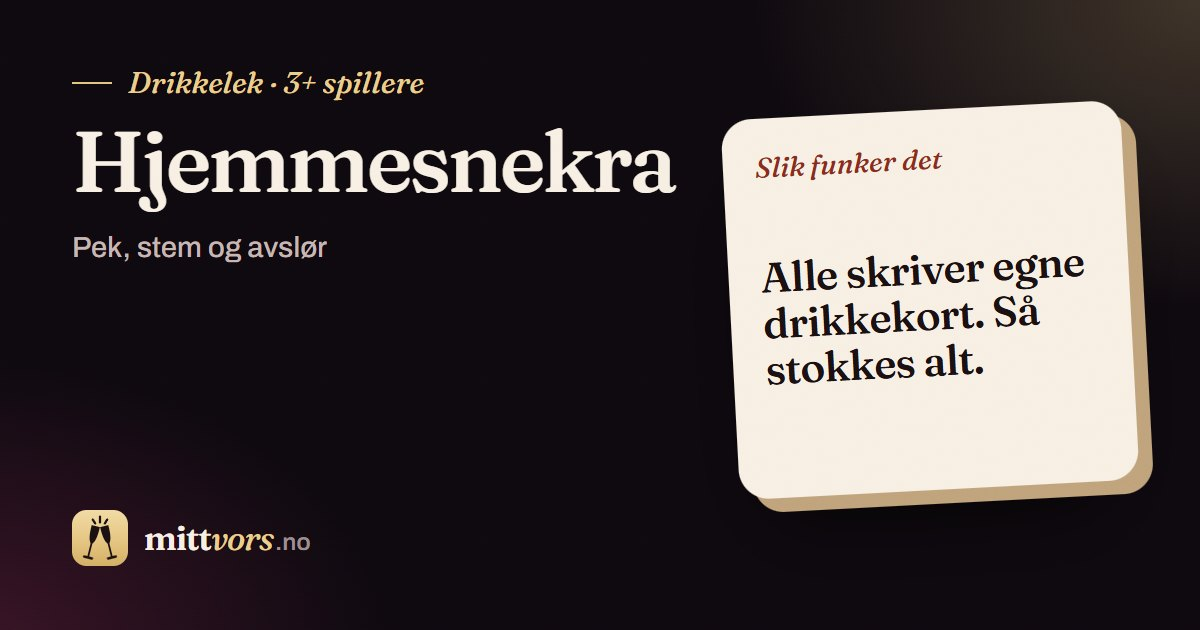
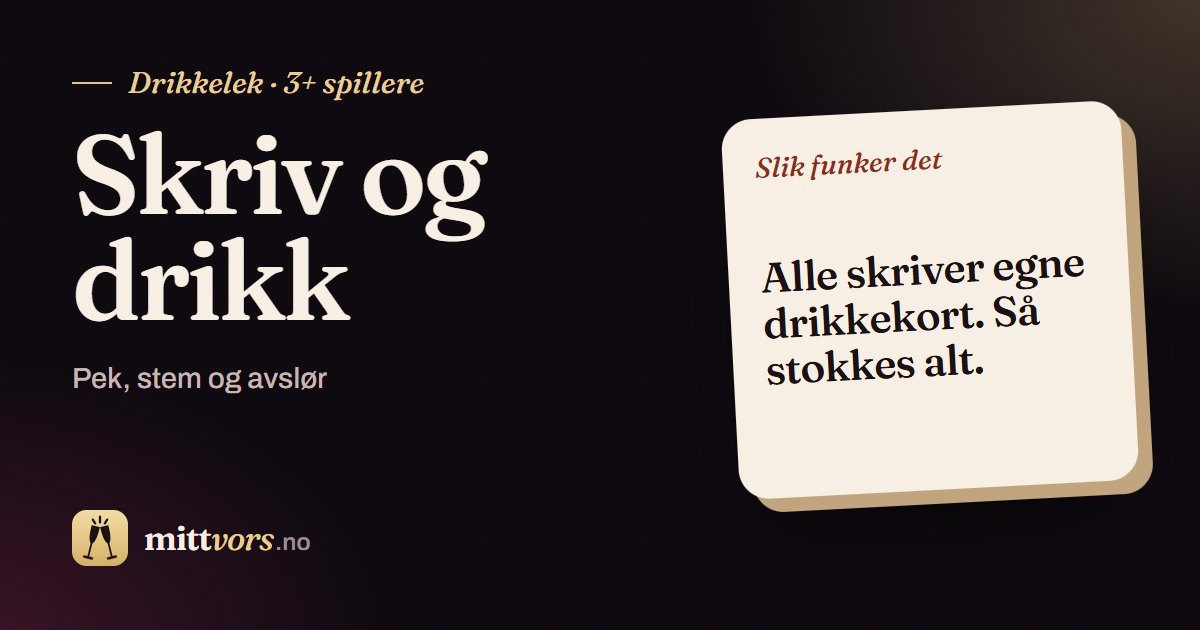
Mobile polish for the drinking games, and "Hjemmesnekra" becomes "Skriv og drikk"
- Game pages: big illustration up top, serif title, facts on one line
  instead of three boxes, no eyebrow label; "Slik spiller dere" heading;
  rule bullets as an airy hairline list; more games as a swipeable row
  of picture cards with a plain "all games" link
- Games index: one gold "Lag et rom" with two text links; search no longer
  sticky, only the filter chips follow you (alcohol-free toggle moved into
  the chip row); serif names; app and rules-only lists use hairlines
  instead of boxes
- Renamed the game "Hjemmesnekra" to "Skriv og drikk" (EN "Write & Drink")
  everywhere, share image regenerated

Changed region(s): [[0.0617, 0.2111, 0.5858, 0.5127], [0.0617, 0.573, 0.2775, 0.6333]]

diff --git a/src/styles/champagne.css b/src/styles/champagne.css
@@ -214,3 +214,85 @@ h3,.h3{font-stretch:normal;font-weight:700}
 .toast{background:var(--gull-glans);color:var(--ink2);box-shadow:0 10px 30px -12px rgb(0 0 0 / .6)}
 
 @media (prefers-reduced-motion:reduce){.h2-hero h1{animation:none}.topp3-bilde img{transition:none}}
+
+/* =====================================================================
+   DRIKKELEKER – oversikten og hver lek, laget for mobilen først.
+   Oversikten: én gullknapp, bare filterraden følger med når man blar,
+   lister med hårstreker i stedet for bokser. Leken: stort bilde, navnet,
+   fakta på én linje, reglene som luftig tekst, flere leker å sveipe.
+   ===================================================================== */
+.lk-snarveier{display:flex;flex-wrap:wrap;align-items:center;gap:12px 22px;margin:18px 0 22px}
+.lk-snarveier .btn.gold{min-height:56px;padding:0 26px;border-radius:999px;font-size:17px}
+.lk-lenker{display:flex;flex-wrap:wrap;gap:6px 22px}
+.lk-lenker a{font-weight:650;font-size:15.5px;color:var(--gold-t);padding:8px 0}
+.lk-sok{width:100%;box-sizing:border-box;min-height:52px;background:var(--card);border:1px solid var(--border2);border-radius:16px;padding:0 16px;color:var(--ink);font:inherit;font-size:16px}
+.lk-sok::placeholder{color:var(--faint)}
+.lk-filter{display:block;padding:10px 0;margin:4px 0 6px;background:rgb(var(--bg-rgb) / .92);-webkit-backdrop-filter:blur(12px);backdrop-filter:blur(12px)}
+.lk-chips{gap:8px;padding:0 0 2px}
+@media (max-width:899px){.lk-filter{margin-left:-18px;margin-right:-18px;padding:10px 0}.lk-chips{padding:0 18px 2px;scroll-padding:0 18px}}
+@media (min-width:900px){.lk-chips{flex-wrap:wrap}}
+.lk-chips button{min-height:42px;border-radius:999px;font-size:14.5px;border-color:var(--border2);background:transparent}
+.lk-chips button[aria-pressed="true"]{background:var(--gull-glans);border-color:transparent;color:var(--ink2)}
+.lk-chips .lk-alkfri{flex:0 0 auto;min-height:42px;padding:0 14px 0 8px;font-size:14.5px;font-weight:600;white-space:nowrap}
+.lk-seksjon{margin:clamp(30px,6vw,48px) 0 0}
+.lk-hode h2{font-size:clamp(28px,4vw,36px)}
+.lk-hode .small{font-size:15.5px;color:var(--muted);max-width:56ch;margin:6px 0 16px}
+/* rom-lekene: bildekort */
+.lk-kort{border-radius:20px;border-color:var(--border)}
+.lk-kort .lk-tekst b{font-family:var(--serif);font-stretch:normal;font-weight:560;font-size:20px;letter-spacing:-.01em;line-height:1.12;text-wrap:balance}
+@media (max-width:520px){.lk-kort .lk-tekst b{font-size:18px}.lk-kort .lk-tekst{padding:10px 12px 12px}}
+.lk-meta i.pluss,.lk-meta i.gratis{background:none;box-shadow:inset 0 0 0 1px var(--hårstrek);border-radius:6px}
+.lk-meta i.gratis{color:var(--faint);box-shadow:inset 0 0 0 1px var(--border2)}
+@media (hover:hover) and (pointer:fine){.lk-kort:hover{border-color:var(--hårstrek)}.lk-kort:hover .lk-tekst b{color:var(--gold-t)}}
+/* telefonen er kortstokken: liste med hårstreker */
+.lk-mellom{gap:0 32px;border-top:1px solid var(--border)}
+.lk-rad{background:none;border:0;border-bottom:1px solid var(--border);border-radius:0;padding:10px 4px 10px 0;min-height:76px}
+.lk-rad img{width:84px;height:auto;flex-basis:84px;aspect-ratio:240/126;object-fit:cover;border-radius:10px}
+.lk-rad .lk-tekst b{font-family:var(--serif);font-stretch:normal;font-weight:560;font-size:19px;letter-spacing:-.005em}
+.lk-rad::after{width:8px;height:8px;border-width:1.5px;border-color:var(--faint)}
+@media (hover:hover) and (pointer:fine){.lk-rad:hover .lk-tekst b{color:var(--gold-t)}}
+/* klassikere: bare navn og utstyr, som en register-liste */
+.lk-sma{gap:0 32px;border-top:1px solid var(--border)}
+.lk-liten{flex-direction:column;gap:2px;padding:13px 2px;border:0;border-bottom:1px solid var(--border);border-radius:0}
+.lk-liten b{font-family:var(--serif);font-weight:560;font-size:18px}
+.lk-liten span{font-size:14px}
+@media (hover:hover) and (pointer:fine){.lk-liten:hover{background:none}.lk-liten:hover b{color:var(--gold-t)}}
+
+/* ---------- én lek ---------- */
+.lek-banner{margin:6px 0 18px;border-radius:20px;overflow:hidden;background:var(--card2);max-width:680px;box-shadow:0 24px 50px -28px rgb(0 0 0 / .8)}
+@media (min-width:900px){.lek-banner{max-width:520px}}
+.lek-banner img{display:block;width:100%;height:auto;aspect-ratio:240/126;object-fit:cover}
+.lek-navn{margin:0;font-size:clamp(40px,10vw,64px);line-height:.98;letter-spacing:-.03em}
+.lek-fakta{list-style:none;margin:14px 0 20px;padding:0;display:flex;flex-wrap:wrap;align-items:center;gap:8px 18px;max-width:680px;font-size:15px;font-weight:550;color:var(--muted)}
+.lek-fakta li{display:inline-flex;align-items:center;gap:6px}
+.lek-fakta .icon{color:var(--faint)}
+.lek-fakta .lek-niva{flex-basis:100%;margin:0 0 2px;padding:0;background:none;border-radius:0;font-family:var(--serif);font-style:italic;font-weight:480;font-size:16.5px;color:var(--gold-t)}
+.lek-fakta .lek-niva .icon{color:var(--gold-t)}
+.lek-fakta .lek-niva.regler{color:var(--muted)}
+.lek-fakta .lek-niva.regler .icon{color:var(--faint)}
+.startrow{display:flex;flex-wrap:wrap;gap:10px;margin:0 0 14px}
+.startrow .btn{border-radius:999px;min-height:54px;padding:0 24px}
+@media (max-width:520px){.startrow .btn{flex:1 1 100%}}
+.lek-h{margin:30px 0 12px;font-size:clamp(26px,5vw,32px)}
+.rules{max-width:640px;font-size:17.5px;line-height:1.6}
+.rules p{margin:0 0 14px;text-wrap:pretty}
+.rules ul{background:none;border:0;border-radius:0;border-top:1px solid var(--border);margin:4px 0 20px}
+.rules li{position:relative;padding:13px 0 13px 22px;border-top:0;border-bottom:1px solid var(--border);line-height:1.5}
+.rules li::before{content:"";position:absolute;left:2px;top:1.35em;width:7px;height:7px;border-radius:50%;background:var(--gold)}
+.gameacts{margin:8px 0 0}
+/* flere leker: en rad å sveipe */
+.lek-flere{margin-top:clamp(44px,8vw,64px)}
+.lek-flere-hode{display:flex;align-items:baseline;justify-content:space-between;gap:16px;margin-bottom:14px}
+.lek-flere-hode h2{margin:0;font-size:clamp(24px,4.6vw,30px);text-wrap:balance}
+.lek-flere-hode a{flex:none;font-weight:650;font-size:15px;color:var(--gold-t)}
+.lek-flere-rad{list-style:none;margin:0 -18px;padding:2px 18px 8px;display:grid;grid-auto-flow:column;grid-auto-columns:min(58vw,220px);gap:12px;
+  overflow-x:auto;scroll-snap-type:x mandatory;scroll-padding:0 18px;scrollbar-width:none;overscroll-behavior-x:contain}
+.lek-flere-rad::-webkit-scrollbar{display:none}
+.lek-flere-rad li{scroll-snap-align:start}
+.lek-flere-rad a{display:flex;flex-direction:column;gap:3px;color:var(--ink);text-decoration:none;transition:scale 160ms var(--ease-out)}
+.lek-flere-rad img{width:100%;height:auto;aspect-ratio:240/126;object-fit:cover;border-radius:14px;background:var(--card2);margin-bottom:6px}
+.lek-flere-rad b{font-family:var(--serif);font-weight:560;font-size:17.5px;line-height:1.15}
+.lek-flere-rad small{font-size:13.5px;color:var(--faint);font-weight:600}
+.lek-flere-rad a:active{scale:.98}
+@media (hover:hover) and (pointer:fine){.lek-flere-rad a:hover b{color:var(--gold-t)}}
+@media (min-width:900px){.lek-flere-rad{margin:0;padding:2px 0 8px;grid-auto-flow:row;grid-template-columns:repeat(4,minmax(0,1fr));overflow:visible}}

diff --git a/src/lib/rom.ts b/src/lib/rom.ts
@@ -966,7 +966,7 @@ const EKSTRA_INFO: EkstraInfo[] = [
   ['bussruta', 'Bussruta', 'Ride the bus', 'Fire spørsmål hver på egen telefon, så pyramiden – og taperen kjører bussen.', 'Four questions each on your own phone, then the pyramid – and the loser rides the bus.'],
   ['yatzy', 'Drikke-Yatzy', 'Drinking Yahtzee', 'Trill på din telefon når det er din tur. Alle ser terningene og blokka.', "Roll on your phone when it's your turn. Everyone sees the dice and the scorecard."],
   ['tosannheter', 'To sannheter og en løgn', 'Two truths and a lie', 'Én skriver tre påstander i hemmelighet. Resten stemmer på løgnen fra sin telefon.', 'One player secretly writes three statements. Everyone else votes for the lie on their phone.'],
-  ['regelfabrikken', 'Hjemmesnekra', 'Homemade', 'Alle skriver så mange drikkekort de rekker på sin telefon. Så stokkes alt og trekkes.', 'Everyone writes as many drinking cards as they can on their phone. Then it all gets shuffled and drawn.'],
+  ['regelfabrikken', 'Skriv og drikk', 'Write & Drink', 'Alle skriver så mange drikkekort de rekker på sin telefon. Så stokkes alt og trekkes.', 'Everyone writes as many drinking cards as they can on their phone. Then it all gets shuffled and drawn.'],
   ['overunder', 'Over eller under', 'Higher or lower', 'Den som har tur gjetter på sin telefon. Feil = drikk hele bunken.', 'Whoever has the turn guesses on their phone. Wrong = drink the whole pile.'],
   ['veddelopet', 'Veddeløpet', 'Horse race', 'Alle vedder på sin telefon, så kjøres løpet.', 'Everyone bets on their phone, then the race is on.'],
   ['pyramiden', 'Pyramiden', 'Pyramid', 'Fire skjulte kort hver. Bløff eller si sannheten – og utfordre de andre.', 'Four hidden cards each. Bluff or tell the truth – and call out the others.'],

diff --git a/src/klient/rom.js b/src/klient/rom.js
@@ -986,7 +986,7 @@ export function startRom(LEKNAVN, LANG) {
   }
   function lagreSomStokk() {
     var s = tilstand && tilstand.spill; if (!s || !s.alleKort || !s.alleKort.length) return;
-    var d = new Date(), navn = T('Hjemmesnekra ' + d.getDate() + '.' + (d.getMonth() + 1) + '.', 'Homemade ' + d.getDate() + '/' + (d.getMonth() + 1));
+    var d = new Date(), navn = T('Skriv og drikk ' + d.getDate() + '.' + (d.getMonth() + 1) + '.', 'Write & Drink ' + d.getDate() + '/' + (d.getMonth() + 1));
     var K = window.BDKonto;
     (K ? K.bruker() : Promise.resolve(null)).then(function (u) {
       if (!u) {
@@ -1327,7 +1327,7 @@ export function startRom(LEKNAVN, LANG) {
   function regelfabrikkenSpill(s) {
     rfOffset = s.naa - Date.now();
     if (s.fase === 'klar') {
-      return '<p class="dl-melding dl-stor">' + T('Klar for Hjemmesnekra?', 'Ready for Homemade?') + '</p>' +
+      return '<p class="dl-melding dl-stor">' + T('Klar for Skriv og drikk?', 'Ready for Write & Drink?') + '</p>' +
         '<p>' + T('Når klokka starter, har alle ', 'When the clock starts, everyone has ') + s.sek + T(' sekunder til å skrive så mange drikkekort de rekker på sin egen telefon.', ' seconds to write as many drinking cards as they can on their own phone.') + '</p>' +
         '<p class="rom-status">' + tilstand.spillere.length + T(' med i rommet: ', ' in the room: ') + tilstand.spillere.map(function (p) { return esc(p.navn); }).join(', ') + '</p>' +
         '<div class="rf-med"><button class="btn ghost" data-g="rf-velg" type="button">' + T('Ta med kort fra kortstokkene dine', 'Bring cards from your decks') + '</button>' +

diff --git a/src/styles/global.css b/src/styles/global.css
@@ -1431,10 +1431,6 @@ button.langlink{cursor:pointer}
 :root[data-theme="light"] .tool{background:var(--card);border-color:var(--border2);box-shadow:0 8px 20px rgb(26 14 40 / .18)}
 
 /* ---------- Illustrasjoner for lekene ---------- */
-.lek-topp{display:flex;align-items:center;justify-content:space-between;gap:16px}
-.lek-topp h1{min-width:0}
-.lek-illu{width:150px;height:auto;border-radius:16px;flex:none;display:block}
-@media (max-width:560px){.lek-illu{width:108px;border-radius:12px}}
 
 /* ---------- Kvittering ---------- */
 .kv-ark{background:#fffdf8;color:var(--ink2);border-radius:20px;padding:28px 26px;max-width:640px;font-family:var(--sans,system-ui);box-shadow:0 10px 30px rgba(0,0,0,.25)}
